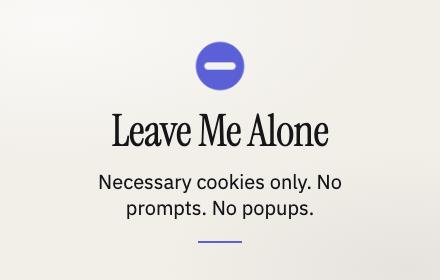
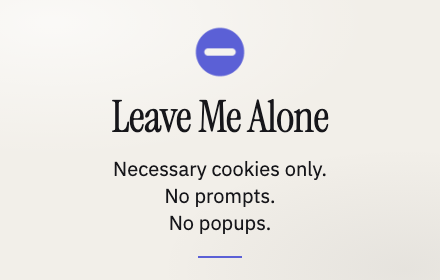
Break promo tile tagline onto one claim per line
Explicit line breaks so "No prompts." and "No popups." each sit on their
own line, which reads more cleanly on the tile than a wrapped block.

diff --git a/store/stages/tile.html b/store/stages/tile.html
@@ -11,14 +11,14 @@
   h1 { font-size: 44px; line-height: 1; margin: 0; }
   /* The store renders this 440x280 tile at roughly 340px on the listing card,
      so the tagline is sized up and darkened to stay readable there — the old
-     14px --ink-soft line was the part that vanished. It wraps to two lines. */
-  p { margin: 14px 0 0; font-size: 20px; line-height: 1.3; color: var(--ink);
-      max-width: 250px; }
+     14px --ink-soft line was the part that vanished. The breaks are explicit:
+     one claim per line reads cleaner than a wrapped block. */
+  p { margin: 14px 0 0; font-size: 20px; line-height: 1.35; color: var(--ink); }
   .rule { width: 44px; height: 2px; background: var(--accent); margin-top: 18px; }
 </style>
 <div class="wrap">
   <img src="/ext/icons/active-128.png" alt="">
   <h1>Leave Me Alone</h1>
-  <p>Necessary cookies only. No prompts. No popups.</p>
+  <p>Necessary cookies only.<br>No prompts.<br>No popups.</p>
   <div class="rule"></div>
 </div>
